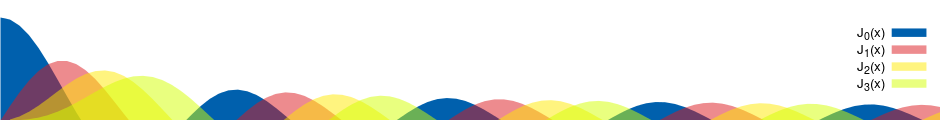
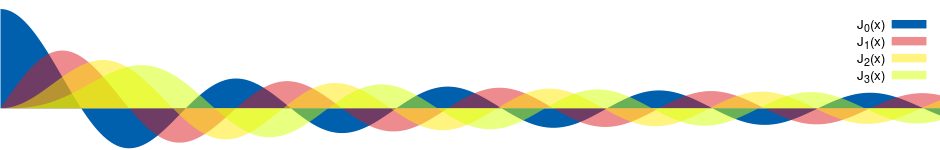
Added classic header with image and h1

diff --git a/style.css b/style.css
@@ -202,90 +202,18 @@ body .comment textarea {
   margin-bottom: 3px;
 }
 
-/* Scalelines (Background grid of title)
+/* Header
 -------------------------------------------------------------------------- */
-/* show the scale paper as background on the whole site, but excluding the
- * content .container section */
-/*
-body {
-  background: transparent url(./img/grid-18px.png) top center;
-}
-.container {
-  background-color: #fff;
-}
-.scalelines {
-  min-width: 940px;
-  padding-top: 0px;
-}
-/*
-.scalelines .inner {
-  background: transparent url(./img/grid-18px.png) top center;
-  padding: 24px 0 1px 0;
-}
-*/
-.scalelines .container {
-  height: 120px;
+header .image {
+  height: 150px;
   background: transparent url(./img/header.png) top center;
 }
-.scalelines h1,
-.scalelines p {
-  color: #5a5a5a;
-  text-align: center;
-  text-shadow: 0 1px 1px rgba(0,0,0,.3);
-}
-.scalelines h1 {
-  margin-bottom: 9px;
-  font-size: 48px;
-  line-height: 1;
-  /*text-shadow: 0 1px 2px rgba(0,0,0,.5);*/
-  height: 500px;
-  display: none;
-}
-.scalelines p {
-  /*margin-bottom: 30px;*/
-  margin-bottom: 48px;
-  font-weight: 300;
-}
-.scalelines .lead {
+header h1 { margin-bottom: 0px; }
+header .lead {
+  font-family: "Times New Roman", "Times", serif;
   font-size: 20px;
-  line-height: 27px;
-  display: none;
-}
-.scalelines p a {
-  color: #5a5a5a;
-  font-weight: bold;
-}
-
-/* Specific headers
-------------------------- */
-/* main docs page */
-.masthead {
-  background-color: #fff;
-  background-repeat: no-repeat;
-}
-/* supporting docs pages */
-.subhead {
-  background-color: #767d80;
-  background-repeat: no-repeat;
-  background-image: -webkit-gradient(linear, left top, left bottom, from(#565d60), to(#767d80));
-  background-image: -webkit-linear-gradient(#565d60, #767d80);
-  background-image: -moz-linear-gradient(#565d60, #767d80);
-  background-image: -o-linear-gradient(top, #565d60, #767d80);
-  background-image: -khtml-gradient(linear, left top, left bottom, from(#565d60), to(#767d80));
-  filter: progid:DXImageTransform.Microsoft.gradient(startColorstr='#565d60', endColorstr='#767d80', GradientType=0); /* IE8 and down */
-}
-.subhead .inner {
-  padding: 36px 0 27px;
-}
-.subhead h1,
-.subhead p {
-  text-align: left;
-}
-.subhead h1 {
-  font-size: 40px;
-}
-.subhead p a {
-  font-weight: normal;
+  font-style: italic;
+  color: #808080;
 }
 
 /* Figure

diff --git a/header.php b/header.php
@@ -27,13 +27,13 @@
 
 
 <!-- ======= Header ======= -->
-<header class="scalelines masthead" id="overview">
-  <div class="inner">
-    <div class="container">
-      <h1>Gnuplotting</h1>
-      <p class="lead">Create scientific plots using Gnuplot</p>
-    </div><!-- </container> -->
-  </div><!-- </inner> -->
+<header id="overview">
+  <div class="container image">
+  </div><!-- </container> -->
+  <div class="container">
+    <a href="http://www.gnuplotting.org"><h1>Gnuplotting</h1></a>
+    <p class="lead">Create scientific plots using Gnuplot</p>
+  </div><!-- container -->
 </header>
 
 <?php // vim: set textwidth=120 ts=2 sw=2: ?>
